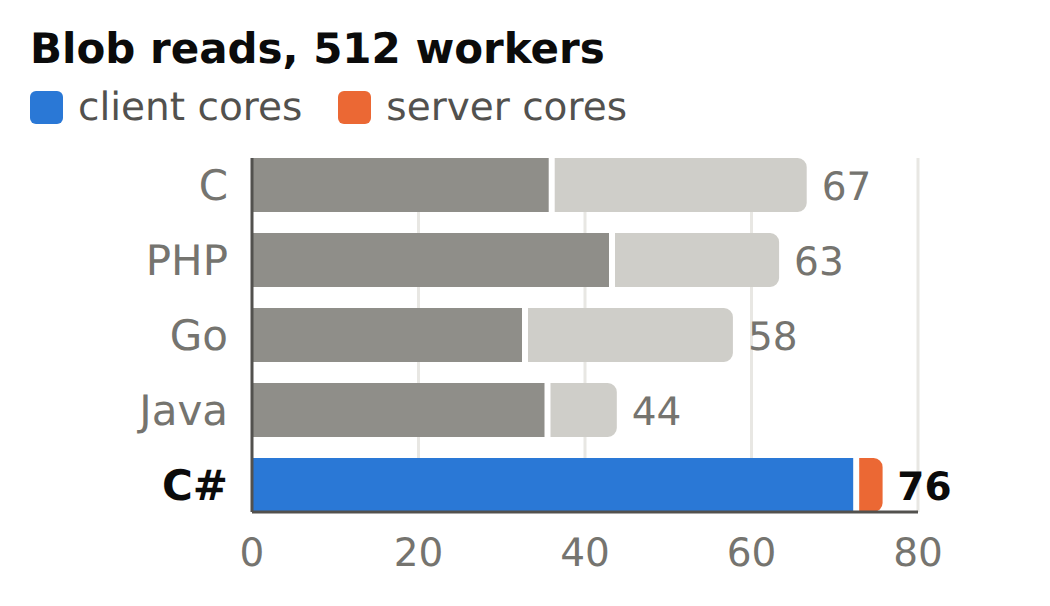
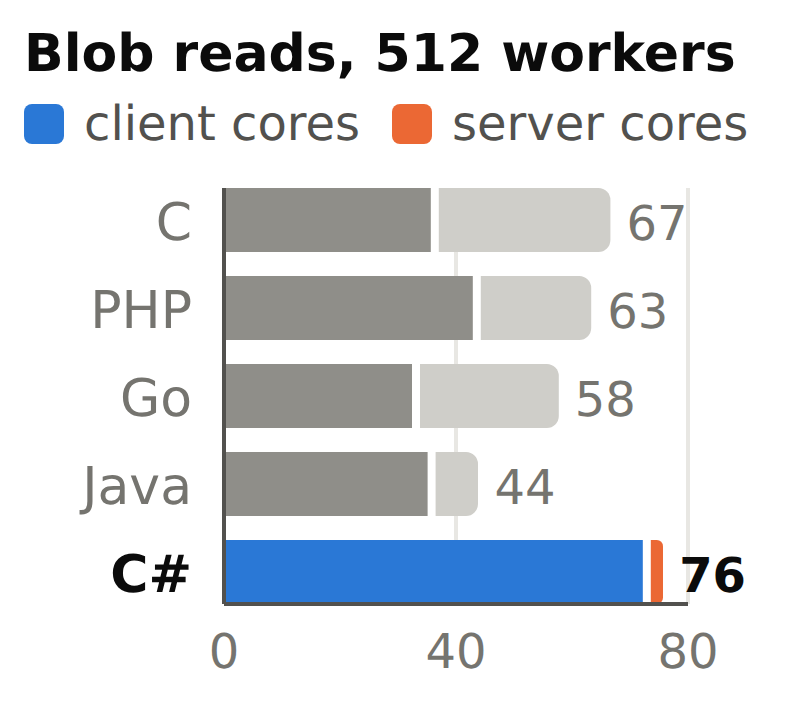
blog: narrower table charts for part 2's equal-width CPU-graphs table
Claude-Session: https://claude.ai/code/session_01DVm3N343MAy56E6DLkPUGX

diff --git a/blog/build_charts.py b/blog/build_charts.py
@@ -307,19 +307,19 @@ def build_post_lowcpu():
 def mini_cores_svg(rows, highlight, xmax=80):
     """Small stacked client/server cores chart for a table cell. rows: (lang, client, server).
     The highlighted language is in colour; the others are in two shades of gray."""
-    bar_h, gap = 18, 7
-    L, R, T, B = 74, 34, 4, 26
-    W = 330
+    bar_h, gap = 16, 6
+    L, R, T, B = 50, 24, 4, 22
+    W = 190
     ph = len(rows) * (bar_h + gap) - gap
     H = T + ph + B
     pw = W - L - R
     x = lambda v: L + pw * v / xmax
     out = [svg_open(W, H)]
-    for t in range(0, xmax + 1, 20):
+    for t in range(0, xmax + 1, 40):
         tx = x(t)
         if t:
             out.append(f'<line x1="{tx:.1f}" x2="{tx:.1f}" y1="{T}" y2="{T + ph}" stroke="{GRID}" stroke-width="1"/>')
-        out.append(f'<text x="{tx:.1f}" y="{T + ph + 18}" text-anchor="middle" font-size="13" fill="{MUTED}">{t}</text>')
+        out.append(f'<text x="{tx:.1f}" y="{T + ph + 16}" text-anchor="middle" font-size="12" fill="{MUTED}">{t}</text>')
     for i, (lang, cli, srv) in enumerate(rows):
         hi = lang == highlight
         cc, sc = (S1, S2) if hi else ("#8f8e89", "#cfcec9")
@@ -333,8 +333,8 @@ def mini_cores_svg(rows, highlight, xmax=80):
                    f'a{r},{r} 0 0 1 {-r},{r} h{-(sw - r):.1f} z" fill="{sc}"/>')
         weight = ' font-weight="700"' if hi else ""
         ink = INK if hi else MUTED
-        out.append(f'<text x="{L - 8}" y="{by + bar_h / 2 + 5:.1f}" text-anchor="end" font-size="14"{weight} fill="{ink}">{NAMES[lang]}</text>')
-        out.append(f'<text x="{sx + sw + 5:.1f}" y="{by + bar_h / 2 + 5:.1f}" font-size="13"{weight} fill="{ink}">{cli + srv:.0f}</text>')
+        out.append(f'<text x="{L - 8}" y="{by + bar_h / 2 + 5:.1f}" text-anchor="end" font-size="13"{weight} fill="{ink}">{NAMES[lang]}</text>')
+        out.append(f'<text x="{sx + sw + 4:.1f}" y="{by + bar_h / 2 + 5:.1f}" font-size="12"{weight} fill="{ink}">{cli + srv:.0f}</text>')
     out.append(f'<line x1="{L}" x2="{L}" y1="{T}" y2="{T + ph}" stroke="{AXIS}" stroke-width="1"/>')
     out.append(f'<line x1="{L}" x2="{L + pw}" y1="{T + ph}" y2="{T + ph}" stroke="{AXIS}" stroke-width="1"/>')
     out.append("</svg>")
@@ -342,13 +342,13 @@ def mini_cores_svg(rows, highlight, xmax=80):
 
 
 def mini_page(title, svg):
-    key = "".join(f'<span style="display:inline-flex;align-items:center;gap:5px;margin-right:12px">'
-                  f'<i style="display:inline-block;width:11px;height:11px;border-radius:2px;background:{c}"></i>{t}</span>'
+    key = "".join(f'<span style="display:inline-flex;align-items:center;gap:5px;margin-right:8px">'
+                  f'<i style="display:inline-block;width:10px;height:10px;border-radius:2px;background:{c}"></i>{t}</span>'
                   for t, c in (("client cores", S1), ("server cores", S2)))
     return (f'<!doctype html><html><head><meta charset="utf-8"><style>'
             f'body{{margin:0;background:{BG};font-family:{FONT}}}'
-            f'.wrap{{width:330px;padding:8px 10px}} h1{{font-size:14px;margin:0 0 4px;color:{INK}}}'
-            f'.k{{font-size:13px;color:{INK2};margin-bottom:4px}} svg{{width:100%;height:auto;display:block}}'
+            f'.wrap{{width:190px;padding:6px 6px}} h1{{font-size:13px;margin:0 0 3px;color:{INK}}}'
+            f'.k{{font-size:12px;color:{INK2};margin-bottom:4px}} svg{{width:100%;height:auto;display:block}}'
             f'</style></head><body><div class="wrap"><h1>{title}</h1><div class="k">{key}</div>{svg}</div></body></html>')
 
 
@@ -359,7 +359,7 @@ def render_mini(name, html, height):
     src.write_text(html)
     browser = shutil.which("chromium") or shutil.which("chromium-browser") or shutil.which("google-chrome")
     subprocess.run([browser, "--headless", "--disable-gpu", "--no-sandbox", "--hide-scrollbars",
-                    "--force-device-scale-factor=3", f"--window-size=350,{height}",
+                    "--force-device-scale-factor=4", f"--window-size=202,{height}",
                     f"--screenshot={out}", src.as_uri()],
                    check=True, stdout=subprocess.DEVNULL, stderr=subprocess.DEVNULL)
     print("wrote", out)
@@ -381,7 +381,7 @@ def build_post2_table():
         ("post-2-tbl-csharp", "Blob reads, 512 workers", rows(4, w4), "csharp"),
     ):
         svg, h = mini_cores_svg(data, hi)
-        render_mini(name, mini_page(title, svg), height=h + 54)
+        render_mini(name, mini_page(title, svg), height=h + 46)
 
 
 def build_post_native():
